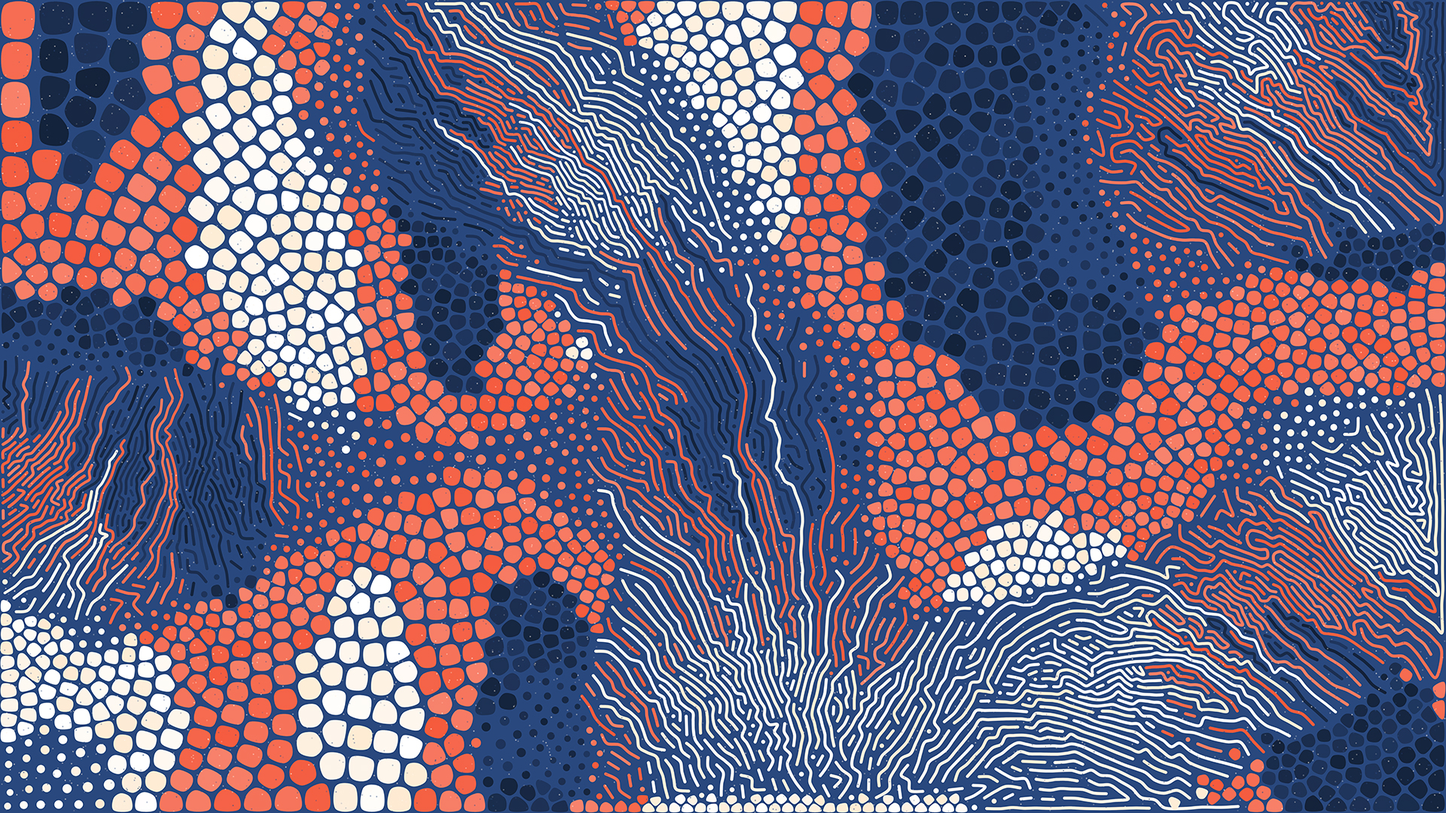
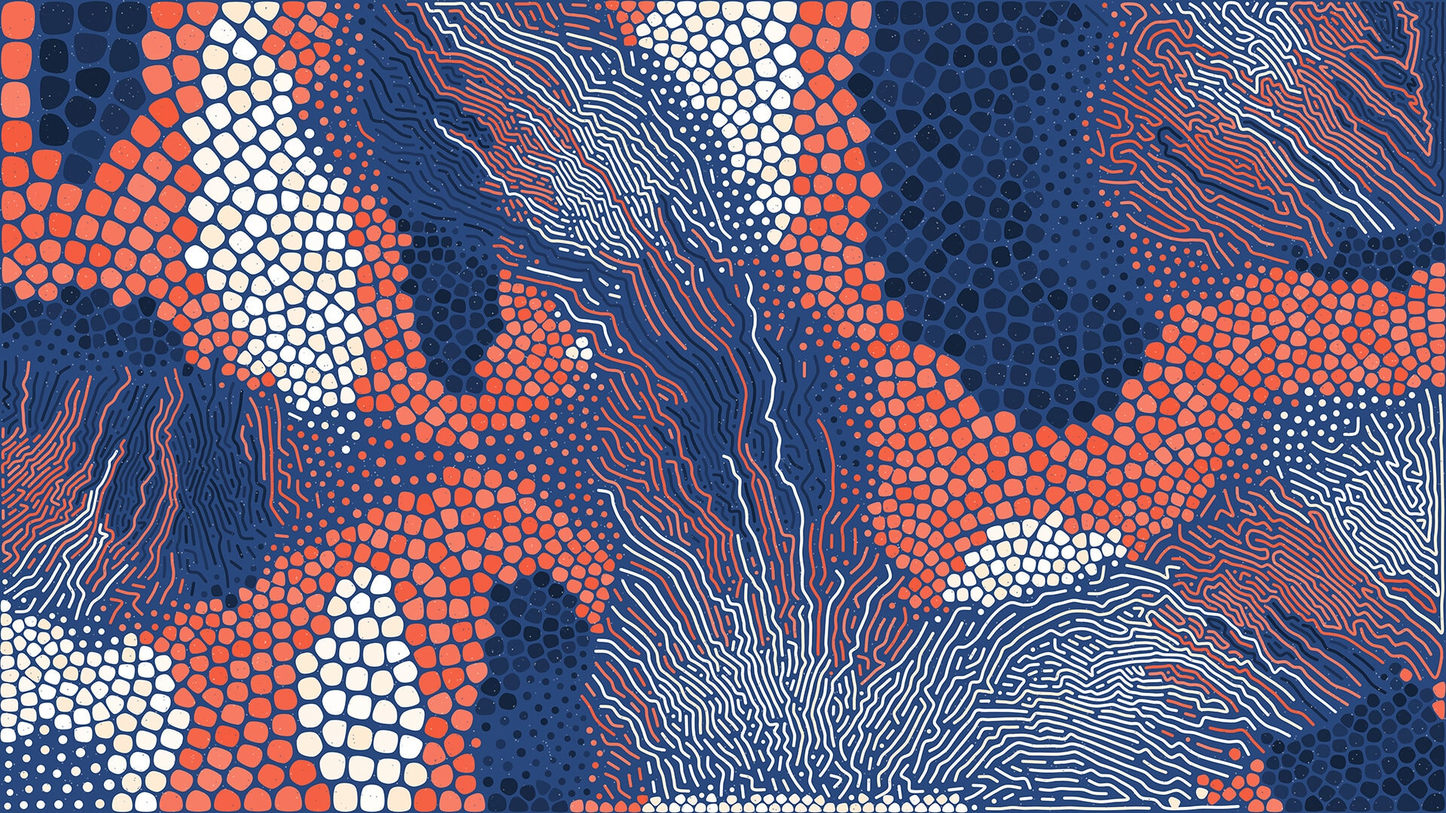
bg image size compressed for fast load on dev

diff --git a/src/Routes/index.js b/src/Routes/index.js
@@ -19,16 +19,14 @@ const AppRoutes = () => {
     return (
         <React.Suspense fallback={<LoadingLayout>Loading...</LoadingLayout>}>
             <Routes>
-                <Route path={ROUTES.signUp} element={<SignUp />} />
                 <Route path={ROUTES.login} element={<Login />} />
+                <Route path={ROUTES.signUp} element={<SignUp />} />
                 {/* <Route path="/" element={<SignUp />} /> */}
                 <Route path="/S" element={<SignUpMobile />} />{' '}
                 {/* Mobile Screen Route*/}
-                <Route path="/L" element={<LoginMobile />} />{' '}
-                {/* Mobile Screen Route*/}
                 <Route path="/P" element={<Preference />} />{' '}
                 {/* Mobile Screen Route*/}
-                <Route path="*" element={<SignUp />} />
+                <Route path="*" element={<Login />} />
                 <Route
                     path="/verification-message/:userId"
                     element={<VerificationMessage />}

diff --git a/src/Mobile/Layout/Layout.scss b/src/Mobile/Layout/Layout.scss
@@ -17,15 +17,15 @@
 }
 
 .Layout-graphics {
-        width: 100%;
-        max-width: 50%;
-        display: none;
-        background: url('../../../public/assets/mobileassets/background.png');
-        grid-area: image;
+    width: 100%;
+    max-width: 50%;
+    display: none;
+    background: url('../../../public/assets/mobileassets/background.png');
+    grid-area: image;
 
-        @media screen and (min-width: 992px) {
-            display: block;
-        }
+    @media screen and (min-width: 992px) {
+        display: block;
+    }
 }
 
 .MobileScreen {
